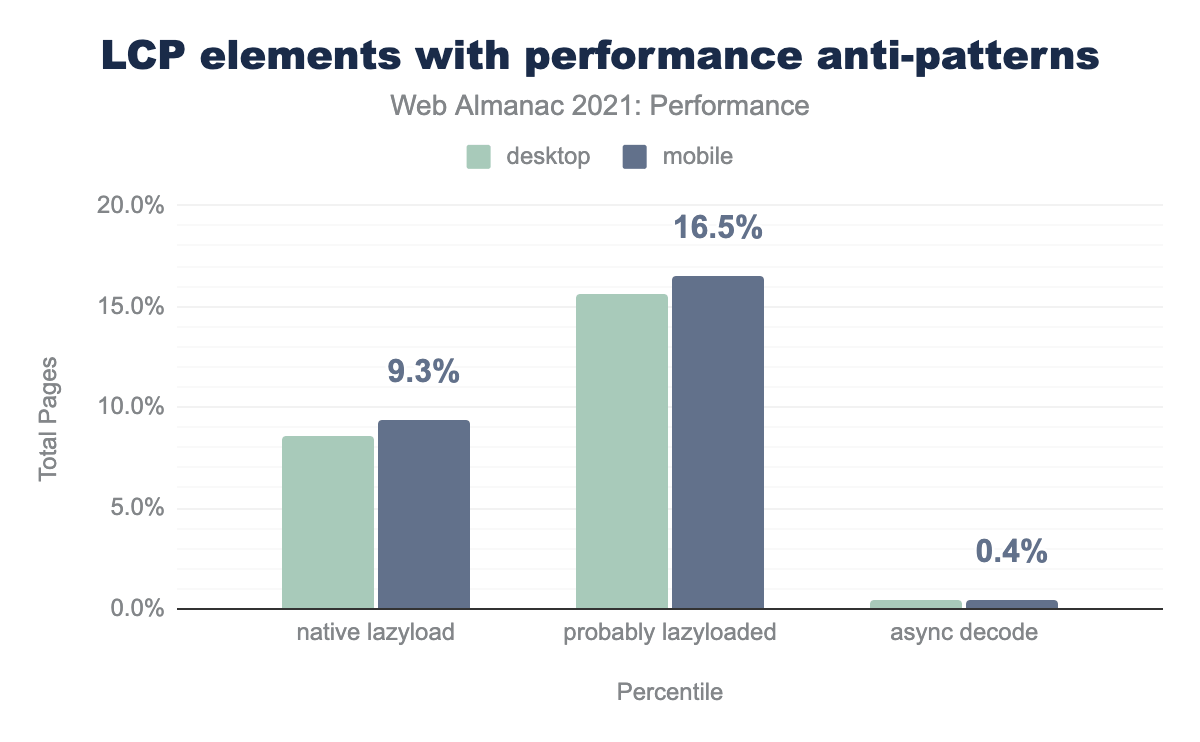
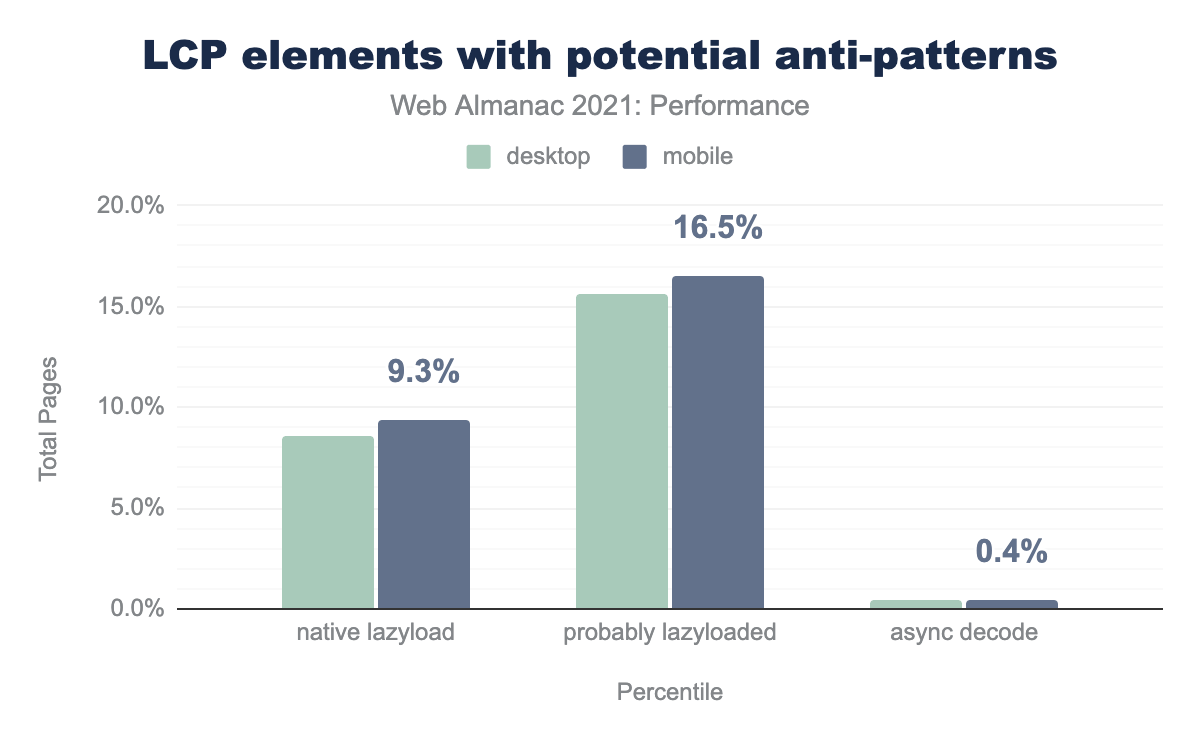
Updated decode statement, etc

Changed region(s): [[0.0617, 0.031, 0.925, 0.093]]

diff --git a/src/content/en/2021/performance.md b/src/content/en/2021/performance.md
@@ -9,13 +9,13 @@ editors: [jzyang]
 translators: []
 results: https://docs.google.com/spreadsheets/d/13xhPx6o2Nowz_3b3_5ojiF_mY3Lhs25auBKM6eqGZmo/
 siakaramalegos_bio: Sia Karamalegos is a web developer, international conference speaker, and writer. She is a Google Developer Expert in Web Technologies, a Cloudinary Media Developer Expert, a Stripe Community Expert, and co-organizes the Eleventy Meetup. Check out her writing, speaking, and newsletter on <a hreflang="en" href="https://sia.codes/">sia.codes</a> or find her on <a hreflang="en" href="https://twitter.com/thegreengreek">Twitter</a>.
-featured_quote: TODO
-featured_stat_1: TODO
-featured_stat_label_1: TODO
-featured_stat_2: TODO
-featured_stat_label_2: TODO
-featured_stat_3: TODO
-featured_stat_label_3: TODO
+featured_quote: The more we can set up smart defaults for performance at the framework level, the better we can make the web while also make developers’ jobs easier.
+featured_stat_1: 37%
+featured_stat_label_1: Percent of top 1,000 websites passing Core Web Vitals
+featured_stat_2: 79%
+featured_stat_label_2: Pages on desktop with an image as an LCP element
+featured_stat_3: 67 s
+featured_stat_label_3: Longest total blocking time
 ---
 
 ## Introduction
@@ -215,7 +215,6 @@ You may be asking yourself how TTFB can even occur with offline connections. Pre
 
 For rank, TTFB was faster for higher-ranking sites. One reason could be that most of these are larger companies with more resources to prioritize performance. They may focus on improving server-side performance and delivering assets through edge CDNs. Another reason could be selection bias - the top origins might be accessed more in regions with closer servers, i.e., lower latency.
 
-{# TODO: validate CMS chapter link works #}
 One more possibility has to do with CMS adoption. The [CMS Chapter](./cms) shows CMS adoption by rank.
 
 {{ figure_markup(
@@ -340,7 +339,7 @@ Offline origins with good LCP more closely matched 4G experiences, though poor L
 
 For LCP, the differences in performance by rank were closer than FCP. Also, a higher proportion of origins in the top 1,000 had poor LCP. On WordPress, <a hreflang="en" href="https://datastudio.google.com/s/kvq1oJ60jaQ">28% of origins experienced good LCP</a>. This is an opportunity to improve user experience as poor LCP is usually caused by a handful of problems.
 
-### The LCP Element
+#### The LCP Element
 
 Let's take a deeper dive into the LCP element.
 
@@ -374,7 +373,7 @@ In both cases, images comprised the majority of LCP elements. This warrants a de
 
 {{ figure_markup(
   image="performance-lcp-antipatterns.png",
-  caption="LCP elements with performance anti-patterns",
+  caption="LCP elements with potential performance anti-patterns",
   description="Bar chart showing 9.3% of pages on mobile use native lazy load on the LCP element, 16.5% probably lazy load, and 0.4% use async decode.",
   chart_url="https://docs.google.com/spreadsheets/d/e/2PACX-1vQj6-t49BNV_5W-w83AABkUoo6klfyUyIz13yKShLAzK8qGs5lJ9TKcggIEp6JgxikVF-UJBAHpsrNl/pubchart?oid=130632749&format=interactive",
   sheets_gid="730149797",
@@ -382,13 +381,13 @@ In both cases, images comprised the majority of LCP elements. This warrants a de
   )
 }}
 
-For user experience, we want LCP elements to load as fast as possible. User experience is why LCP was selected as one of the Core Web Vitals. We do not want it to be lazy-loaded nor decoded asynchronously as that further delays the render. However, we can see that 9.3% of pages used the native loading=lazy flag on the LCP `<img>` element.
+For user experience, we want LCP elements to load as fast as possible. User experience is why LCP was selected as one of the Core Web Vitals. We do not want it to be lazy-loaded as that further delays the render. However, we can see that 9.3% of pages used the native loading=lazy flag on the LCP `<img>` element.
 
 Not all browsers support native lazy loading. Popular lazy loading polyfills detect a "lazyload" class on an image element. Thus, we can identify more possibly lazy-loaded images by adding images with a "lazyload" class to the total. The percent of sites probably lazy loading their LCP `<img>` element jumps up to 16.5% on mobile.
 
 Lazy loading your LCP element will result in worse performance. *Don't do it!* WordPress was an early adopter of native lazy loading. The early method was a naive solution applying lazy loading to all images, and the results showed a <a hreflang="en" href="https://web.dev/lcp-lazy-loading/">negative performance correlation</a>. They were able to use this data to implement a more nuanced approach for better performance.
 
-Luckily, only 0.4% of sites used the async decode directive for their LCP image. The negative impact of asynchronous decode is not as high as lazy loading.
+The <a hreflang="en" href="https://developer.mozilla.org/en-US/docs/Web/HTML/Element/img#attr-decoding">`decode` attribute</a> for images is relatively new. Setting it to `async` can improve load and scroll performance. Currently, 0.4% of sites used the async decode directive for their LCP image. The negative impact of asynchronous decode on an LCP image is currently unclear. Thus, test your site before and after if you choose to set an LCP image to `decode="async"`.
 
 {{ figure_markup(
   content="354",
